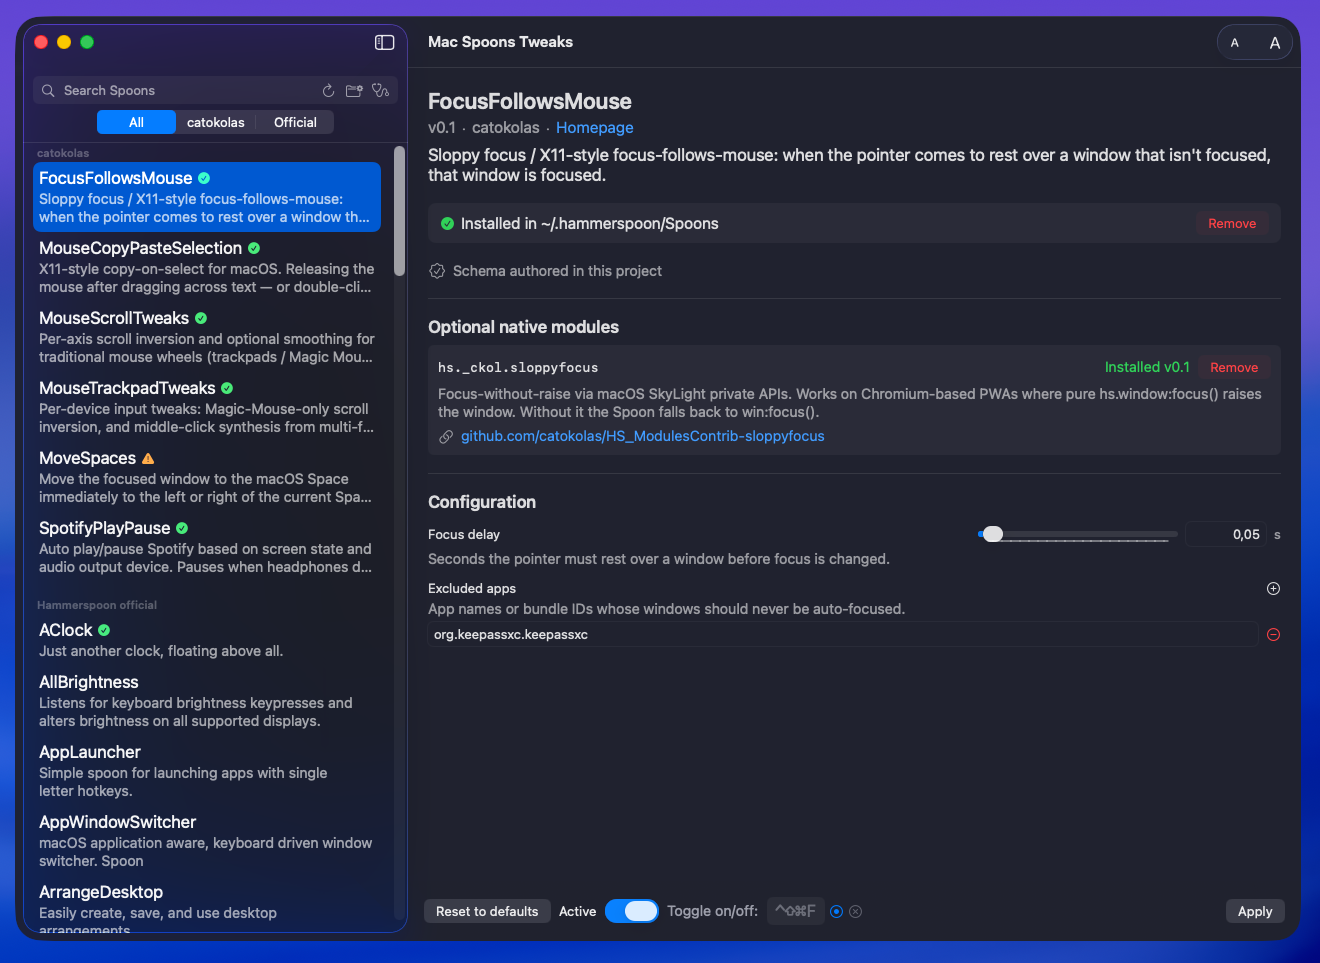
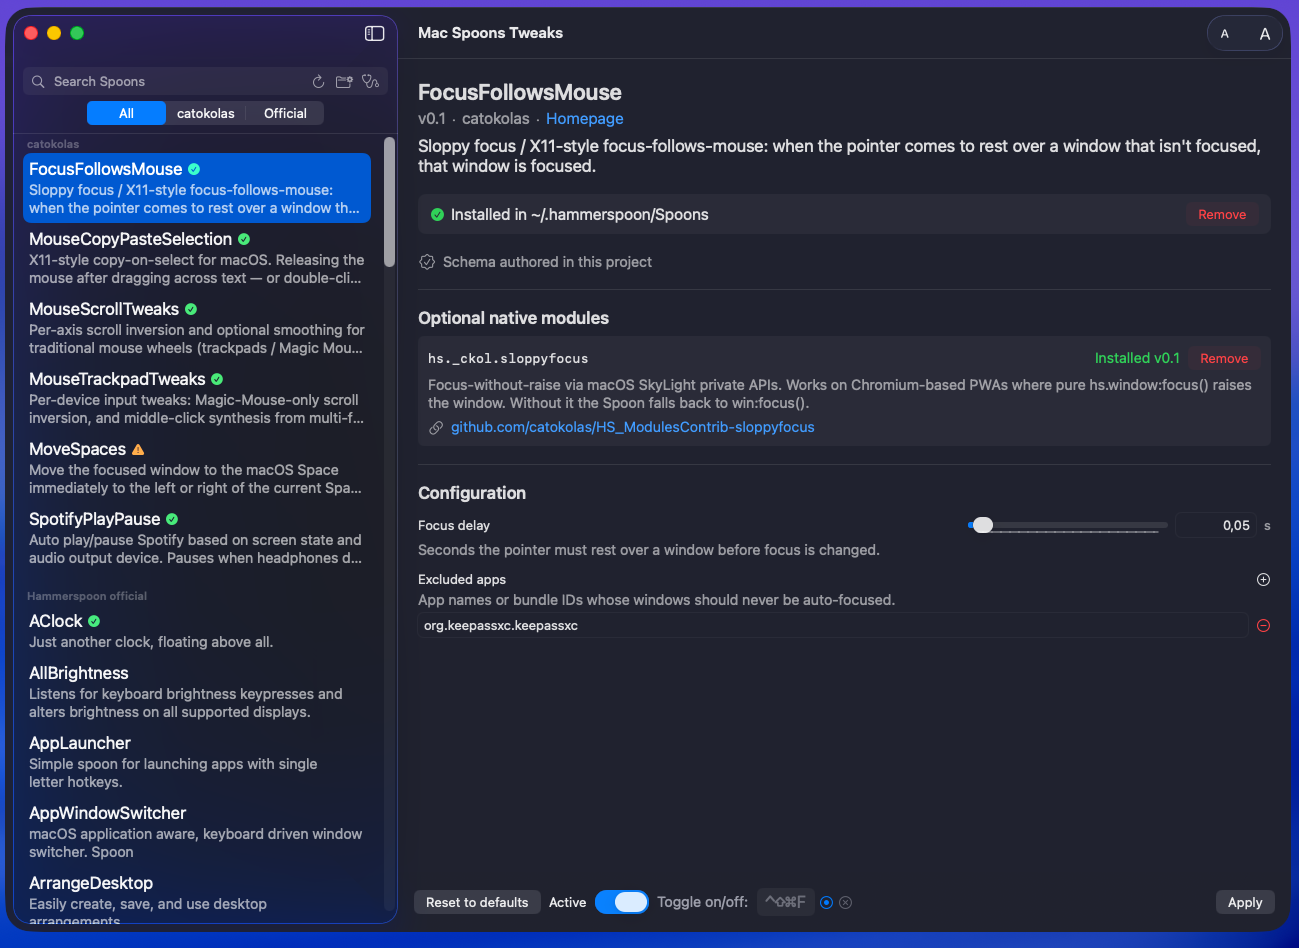
README: drop 'cask in preparation' note + refresh app-example.png
The Homebrew tap (catokolas/tap/macspoonstweaks) has been live
through several releases now; the install section can just be the
install line. Bonus: brew handles hammerspoon as a dep and
brew upgrade --cask handles updates.

diff --git a/README.md b/README.md
@@ -40,11 +40,13 @@ it, open the Hammerspoon console and run `hs.ipc.cliInstall()` once.
 
 ### Homebrew
 
-A Homebrew cask is in preparation. Once published:
-
 ```sh
 brew install --cask catokolas/tap/macspoonstweaks
 ```
+
+The cask depends on `hammerspoon`, so Homebrew installs that
+alongside if you don't already have it. Upgrades via the usual
+`brew upgrade --cask macspoonstweaks`.
 
 ### Download the latest release
 